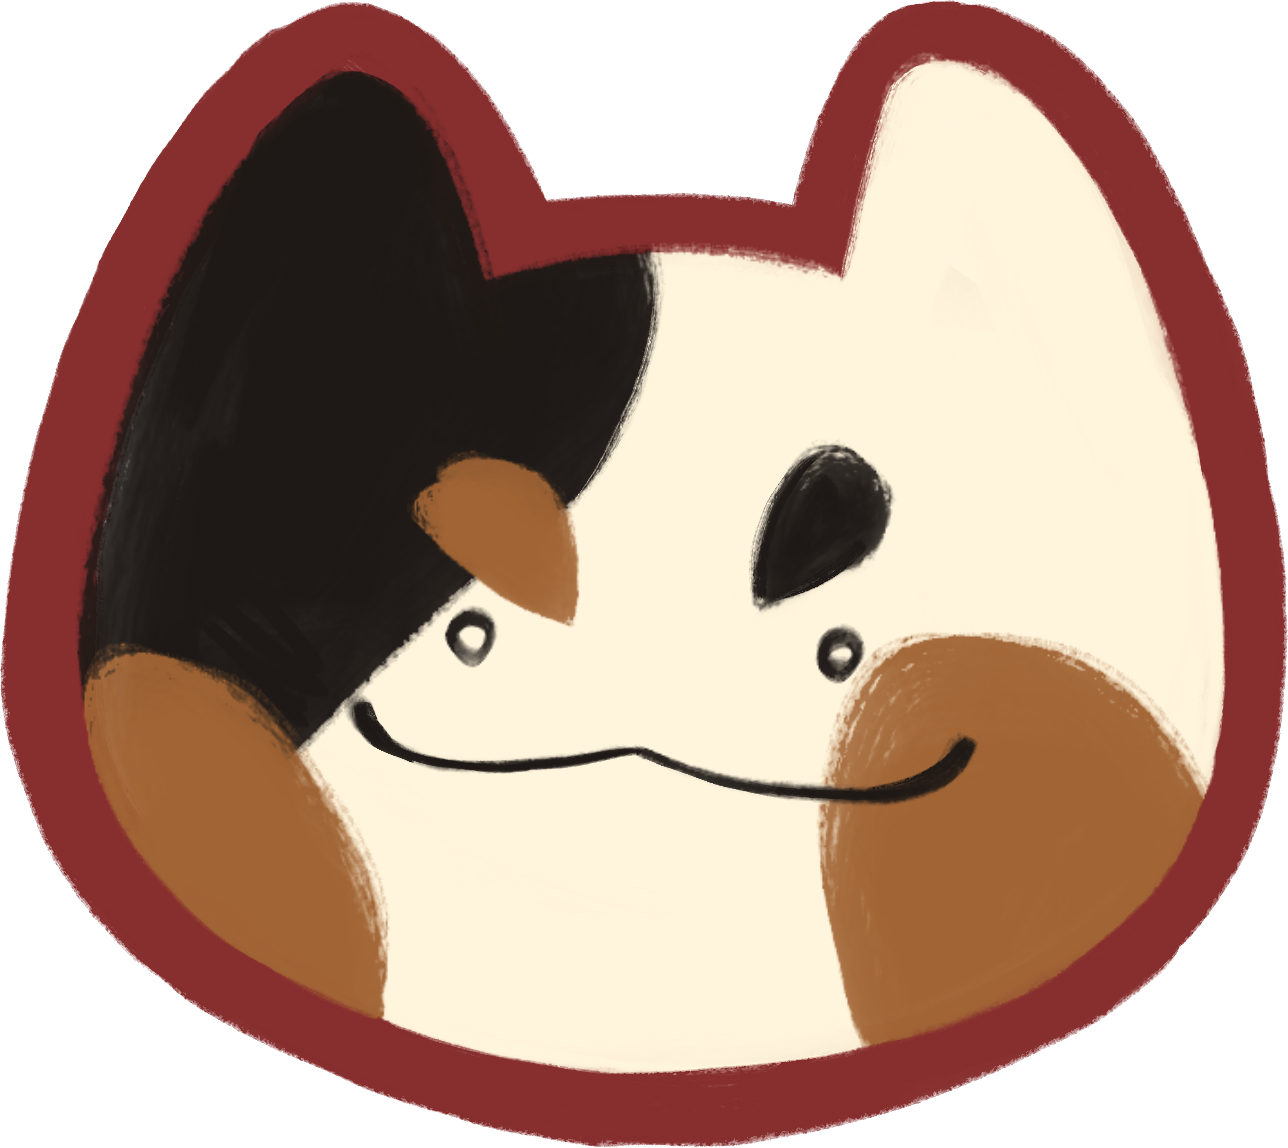
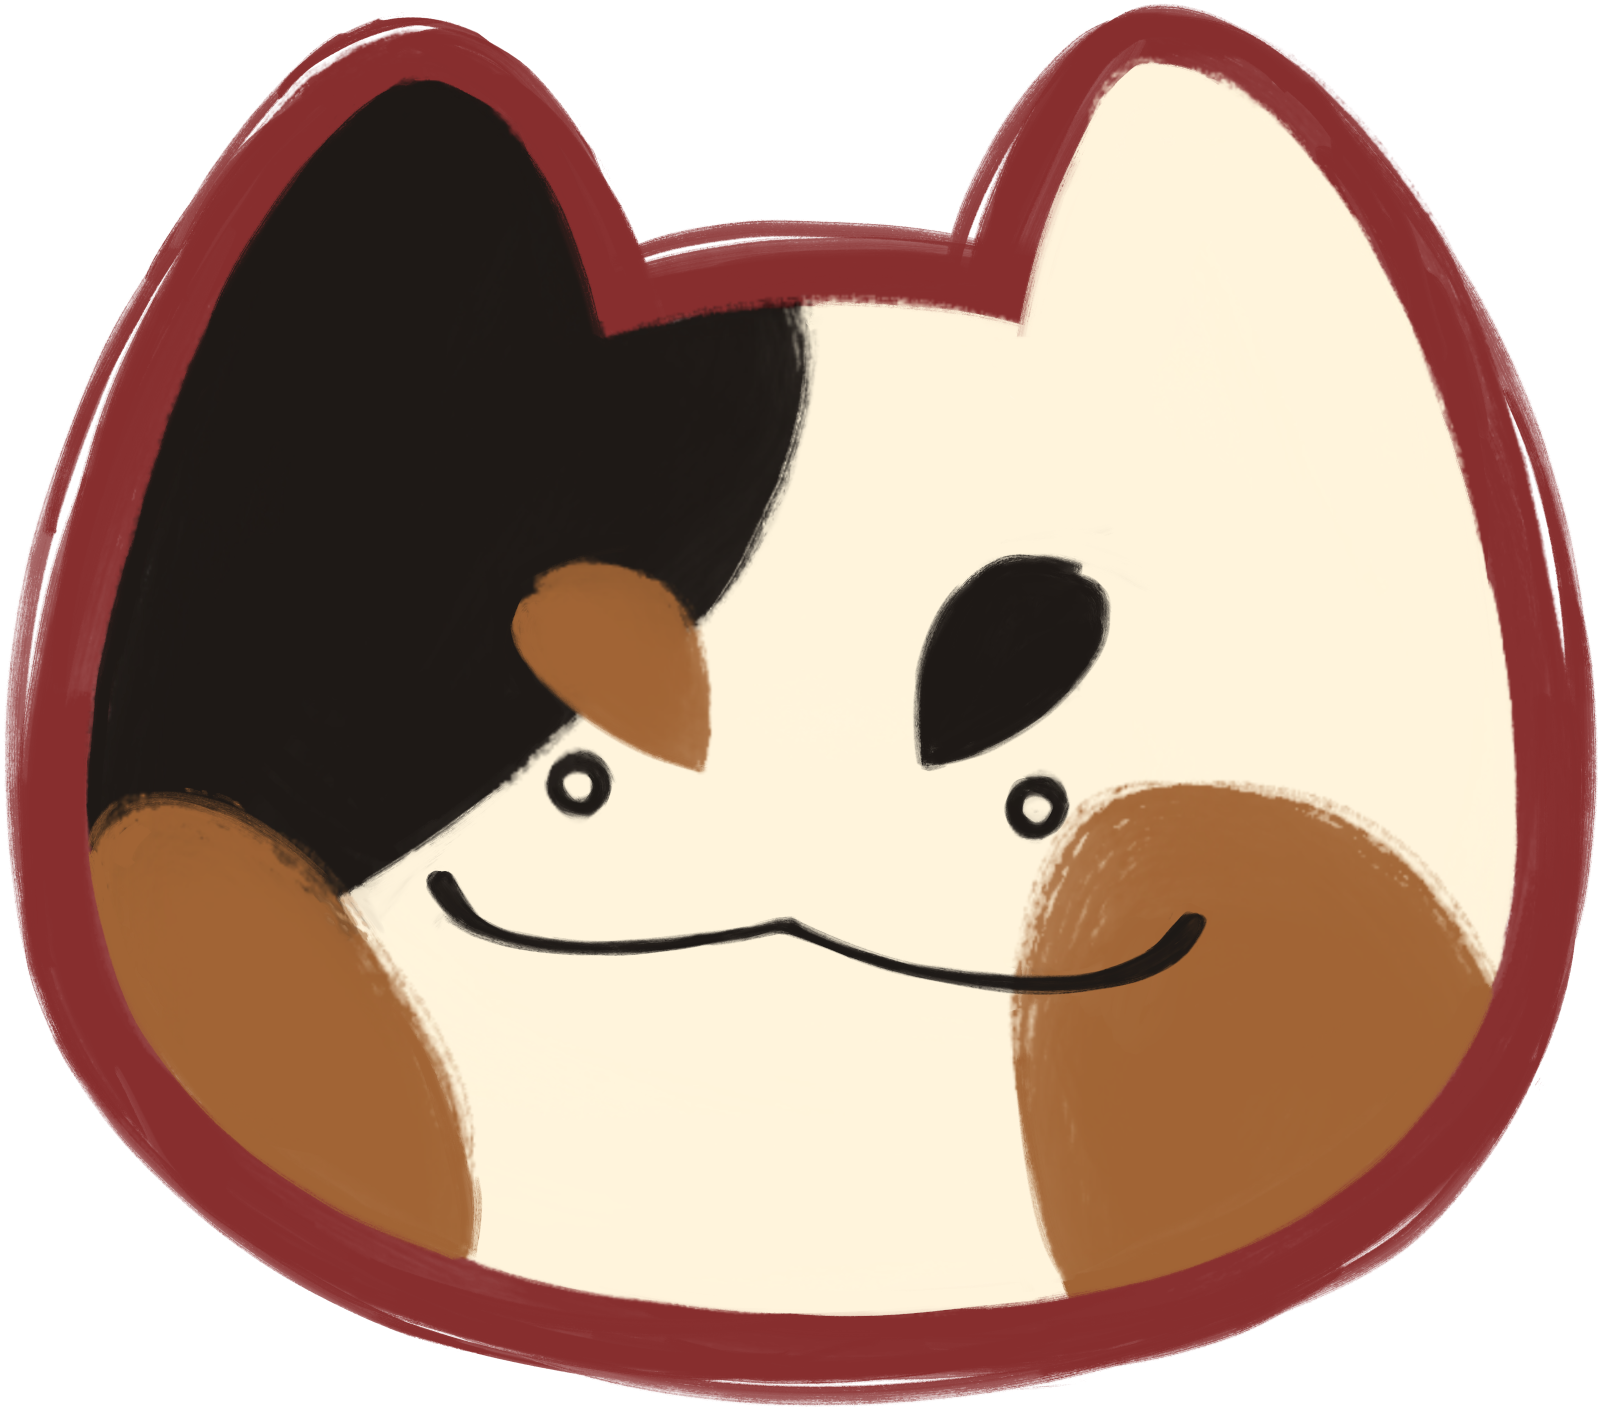
feat: mascot animation and quality

diff --git a/src/styles/global.css b/src/styles/global.css
@@ -33,4 +33,27 @@
     :root {
         scroll-behavior: smooth;
     }
+
+    @keyframes mascot-hop {
+        0%,
+        100% {
+            transform: translateY(0);
+        }
+        20% {
+            transform: translateY(2px);
+        }
+        45% {
+            transform: translateY(-4px);
+        }
+        70% {
+            transform: translateY(0);
+        }
+        85% {
+            transform: translateY(-2px);
+        }
+    }
+
+    .mascot:hover {
+        animation: mascot-hop 0.6s ease-in-out;
+    }
 }
